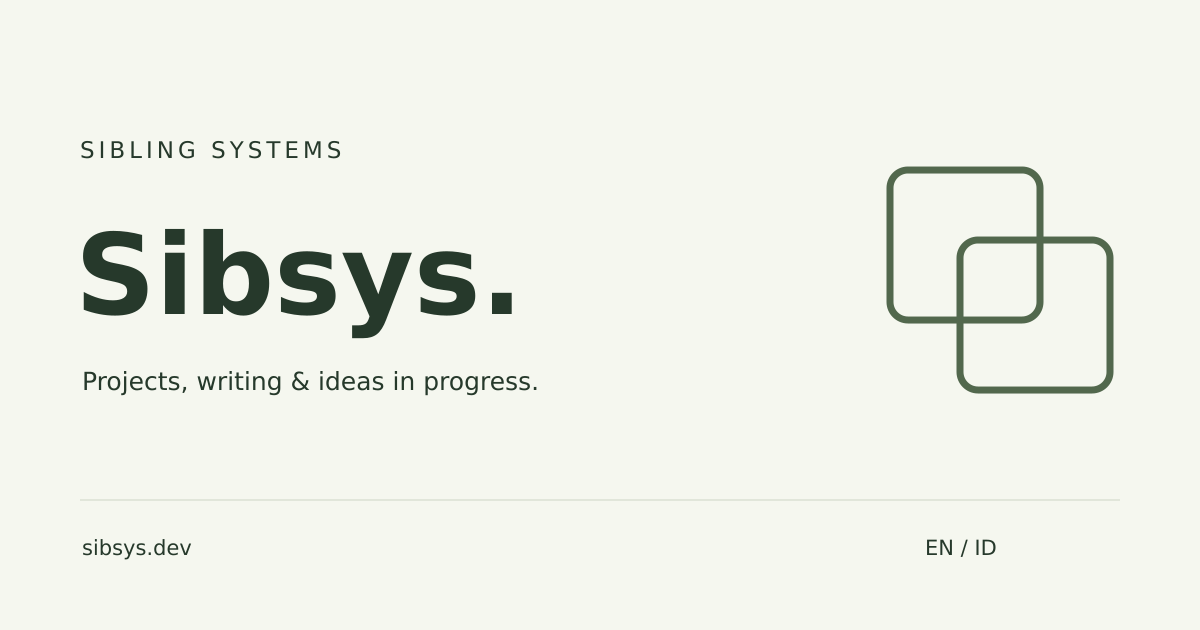
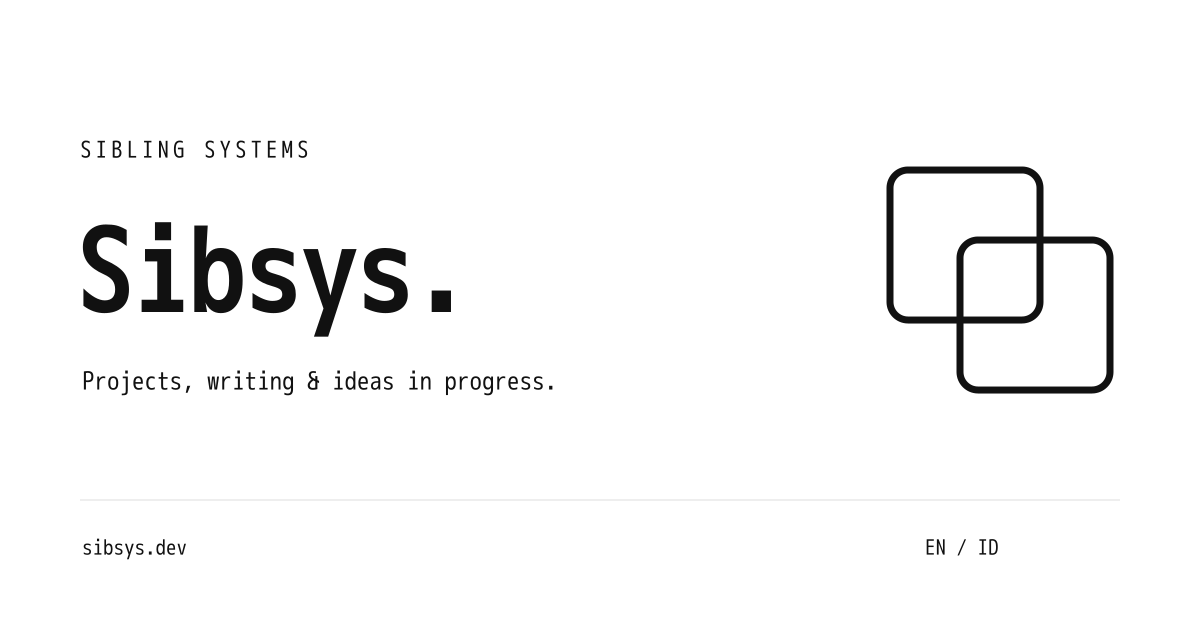
style: adopt monochrome themes and move visible attribution to README

diff --git a/app/styles/sibsys.css b/app/styles/sibsys.css
@@ -1,31 +1,30 @@
 @import '@fontsource/maple-mono/latin-400.css';
 @import '@fontsource/maple-mono/latin-600.css';
-@import '@navfolio/theme-default/styles/palettes.css';
 
 :root,
 :root[data-palette] {
   color-scheme: light;
-  --bg: #fdfdf9;
-  --surface: #fffffc;
-  --wash: #f1f4ed;
-  --ink: #272d28;
-  --muted: #626d62;
-  --line: #dce2d8;
-  --accent: #486448;
-  --soft: #e6edde;
+  --bg: #ffffff;
+  --surface: #ffffff;
+  --wash: #f5f5f5;
+  --ink: #111111;
+  --muted: #595959;
+  --line: #dedede;
+  --accent: #111111;
+  --soft: #e9e9e9;
   --font: 'Maple Mono', ui-monospace, monospace;
 }
 :root[data-theme='dark'],
 :root[data-theme='dark'][data-palette] {
   color-scheme: dark;
-  --bg: #171b18;
-  --surface: #202620;
-  --wash: #252e25;
-  --ink: #eaebe5;
-  --muted: #b0bcac;
-  --line: #3a4639;
-  --accent: #bbd4a9;
-  --soft: #344332;
+  --bg: #222222;
+  --surface: #292929;
+  --wash: #303030;
+  --ink: #e2e2e2;
+  --muted: #b5b5b5;
+  --line: #484848;
+  --accent: #dcdcdc;
+  --soft: #3a3a3a;
 }
 * {
   box-sizing: border-box;
@@ -145,7 +144,7 @@ a svg {
   border: 1px solid var(--line);
   border-radius: 9px;
   background: var(--surface);
-  box-shadow: 0 2px 4px #16251603;
+  box-shadow: 0 2px 4px #00000003;
   z-index: 20;
 }
 .brand {
@@ -577,10 +576,6 @@ a svg {
   font-size: 10px;
   margin: 7px 0;
 }
-.site-footer small {
-  color: var(--muted);
-  font-size: 9px;
-}
 .footer-links {
   display: flex;
   gap: 25px;
@@ -718,6 +713,15 @@ a svg {
 .prose blockquote p {
   margin: 0;
 }
+.prose .callout,
+:root[data-theme='dark'] .prose .callout {
+  background: var(--wash);
+  border-color: var(--line);
+  border-left-color: var(--accent);
+}
+.prose .callout-title {
+  color: var(--ink);
+}
 .prose table {
   border-collapse: collapse;
   width: 100%;
@@ -822,7 +826,7 @@ dialog {
   box-shadow: 0 20px 90px #0003;
 }
 dialog::backdrop {
-  background: #10201066;
+  background: #00000066;
   backdrop-filter: blur(3px);
 }
 .search-heading {

diff --git a/app/lib/i18n.ts b/app/lib/i18n.ts
@@ -36,7 +36,6 @@ export const messages = {
     colophon: 'A little place to make things.',
     rss: 'Subscribe via RSS',
     source: 'Source code',
-    inspired: 'Inspired by Navfolio.',
     writingKicker: 'The notebook',
     writingTitle: 'Notes along the way.',
     writingDescription: 'Ideas, observations, and things worth writing down.',
@@ -107,7 +106,6 @@ export const messages = {
     colophon: 'Ruang kecil untuk berkarya.',
     rss: 'Berlangganan lewat RSS',
     source: 'Kode sumber',
-    inspired: 'Terinspirasi oleh Navfolio.',
     writingKicker: 'Buku catatan',
     writingTitle: 'Catatan dalam perjalanan.',
     writingDescription: 'Ide, pengamatan, dan hal-hal yang layak dicatat.',

diff --git a/scripts/build.ts b/scripts/build.ts
@@ -11,7 +11,8 @@ async function run(command: string[]) {
   });
   if (await child.exited) throw new Error(`Build step failed: ${command.join(' ')}`);
 }
-await run(['node', 'node_modules/astro/bin/astro.mjs', 'build']);
+// Content caches can retain stylesheet URLs from an earlier Markdown theme.
+await run(['node', 'node_modules/astro/bin/astro.mjs', 'build', '--force']);
 for (const lang of ['en', 'id']) await cp(`dist/${lang}/404/index.html`, `dist/${lang}/404.html`);
 if (site.placeholderMode) {
   const headers = await readFile('dist/_headers', 'utf8');

diff --git a/app/scripts/interactions.ts b/app/scripts/interactions.ts
@@ -3,6 +3,8 @@ const toggle = document.querySelector<HTMLButtonElement>('#theme-toggle');
 toggle?.addEventListener('click', () => {
   const next = document.documentElement.dataset.theme === 'dark' ? 'light' : 'dark';
   document.documentElement.dataset.theme = next;
+  const themeColor = document.querySelector<HTMLMetaElement>('meta[name="theme-color"]');
+  if (themeColor) themeColor.content = themeColor.dataset[next]!;
   try {
     localStorage.setItem('sibsys-theme', next);
   } catch {

diff --git a/docs/implementation-record.md b/docs/implementation-record.md
@@ -52,3 +52,13 @@ A subsequent export verification preserved every non-search file checksum but ch
 Docker Compose editing and Wrangler preview both started successfully on loopback. A temporary bind-mounted edit appeared in the editing service and was restored immediately. An isolated export test verified that the active release no longer contains a withdrawn page while the old artifact remains retained. The export now saves its matching Wrangler configuration and records actual Node version, lockfile hash and configuration hash. Wrangler's upload dry run passed with no configured application bindings. A dry run is not a deployment.
 
 The final source tag is `v0.1.0-preview.1`; it denotes a placeholder preview, not production acceptance. The local runtime/output is ready for owner review. G2's bilingual slice is implemented and tested; G3's placeholder presentation is delivered under the owner's scope change. G4/G5 remain open for the specifically listed manual/owner/hosted checks. The retained Markdown adapter still produces an Astro deprecation notice; migrate that adapter before a future incompatible framework upgrade.
+
+## Monochrome and interface attribution revision — 2026-10-17
+
+The owner requested a plain black/white light theme, comfortable dark contrast and no Navfolio credit in the website interface. Light mode now uses white surfaces and near-black text; dark mode uses charcoal `#222222` with off-white text. Navigation, search, code syntax, Markdown callouts, favicon, sharing image and browser theme color follow the neutral palette. The README acknowledgment and existing license notices remain; these changes do not transfer upstream copyright.
+
+Removed the EN/ID footer attribution and its translation keys. Visible-text extraction found no upstream name across all 45 generated HTML files. Seven unit tests, Astro diagnostics, formatting and eight Chromium browser scenarios passed. Additional checks against the refreshed Docker preview covered EN/ID home and code-containing articles in both themes: no chromatic computed UI colors, no selected axe A/AA violations, and a minimum 5.55:1 contrast for primary, secondary and accent text against the four surface tokens. Desktop/mobile, both themes, article and sharing-image renders were inspected. This remains automated/sample-based verification, not full manual accessibility acceptance.
+
+The output audit exposed a stale Expressive Code stylesheet URL after changing its theme. Production builds now use Astro's supported `--force` option to refresh content caches. Rebuilding the previously cached workspace and a clean Docker source layer both passed the generated-link audit.
+
+GitHub's public contributor API listed six inherited authors/bots plus the owner, matching the local history. The list comes from commit authorship, independently of collaborator access. Removing the inherited names requires replacing the default-branch ancestry; this revision does not itself rewrite that history. Prepare and verify a complete Git bundle and a candidate preserving the owner's Sibsys commits before any separately approved public history replacement. GitHub documents that contributor statistics can take about 24 hours to refresh after a history change: [contributor documentation](https://docs.github.com/en/repositories/viewing-activity-and-data-for-your-repository/viewing-a-projects-contributors).

diff --git a/README.md b/README.md
@@ -1,6 +1,6 @@
 # Sibsys — Sibling Systems
 
-A quiet home for projects, writing, and ideas in progress. English and Bahasa Indonesia, light/dark themes and local search. Built with Astro, inspired by [Navfolio](https://github.com/dodolalorc/astro-navfolio), for **https://sibsys.dev**.
+A quiet home for projects, writing, and ideas in progress. English and Bahasa Indonesia, monochrome light/charcoal dark themes and local search. Built with Astro for **https://sibsys.dev**.
 
 This first version contains **clearly labeled placeholder content**, as requested. Search engines are asked not to index it until `placeholderMode` is turned off after editorial review. This is a publishing preference, not access control: public files and Git history remain readable.
 
@@ -48,7 +48,7 @@ Read the [author guide](docs/author-guide.md), [operations guide](docs/operation
 
 Upstream Navfolio history and its MIT notice are retained. Legacy `src/` (except `src/lib/` and the Markdown plugin adapter), `public/`, old scripts and the optional `src/docs` submodule are reference material. **Edit the `app/` paths above.** A normal clone is sufficient; initializing the reference docs submodule is unnecessary. Rebuild the original reference only from audited commit `70aa71ddd9f7ee4af38fa5810b320820712f1885` in a separate checkout.
 
-The Docker image digest, Bun version and `bun.lock` pin build inputs. Sibsys uses Navfolio's neutral base layout, palettes and Markdown integration, with application-owned EN/ID routing; no private package forks are required. See [third-party notices](docs/third-party-notices.md).
+The Docker image digest, Bun version and `bun.lock` pin build inputs. Sibsys owns its EN/ID routing and monochrome palettes; no private package forks are required.
 
 ## Source and deployment
 
@@ -57,3 +57,7 @@ Source: [ghanrabban/Sibling-Systems-Portfolio](https://github.com/ghanrabban/Sib
 GitHub publication and Cloudflare deployment are separate. The inherited Pages/review workflows were removed; pushes do not automatically deploy or send source to a review provider. Keep confidential drafts outside this public repository.
 
 The intended Worker is `sibsys-portfolio`. Verify the account and existing custom-domain binding before deployment. Configuration intentionally does not replace an unknown domain association. Follow the operations guide to upload the reviewed static artifact and connect `sibsys.dev`.
+
+## Acknowledgment
+
+Inspired by [Navfolio](https://github.com/dodolalorc/astro-navfolio). Sibsys retains its neutral base layout and Markdown integration. The original MIT copyright/permission notice and applicable package/font/icon licenses remain included; see [LICENSE](LICENSE) and [third-party notices](docs/third-party-notices.md). This acknowledgment is shown here rather than in the website interface.

diff --git a/.agents/context/current-design.md b/.agents/context/current-design.md
@@ -2,7 +2,9 @@
 
 Production source: `app/`; public assets: `static/`; Astro static output: `dist/`. Local `src/lib/publication.ts` owns en/id locales, Jakarta build-date eligibility, slug uniqueness and translation pairing. `app/content.config.ts` loads locale-qualified IDs from Markdown/MDX. Collection eligibility feeds all routes, feeds and Pagefind.
 
-Retained Navfolio pieces: language-neutral BaseLayout, palette styles, Markdown integration through `src/plugins/config.ts`, upstream Git history and MIT license. No package fork is needed and upstream locale normalization is not used. `modules: []` disables legacy injected modules. `src/` legacy content/layouts and `public/` are references, not production inputs.
+Retained Navfolio pieces: language-neutral BaseLayout, Markdown integration through `src/plugins/config.ts`, upstream Git history and MIT license. No package fork is needed and upstream locale normalization is not used. `modules: []` disables legacy injected modules. `src/` legacy content/layouts and `public/` are references, not production inputs.
+
+Owner's 2026-10-17 design revision: application-owned neutral grayscale tokens, white/near-black light mode and charcoal/off-white dark mode. Code blocks, favicon and sharing artwork follow the same direction. No visible upstream credit in the website interface; README credit and license notices remain.
 
 Docker provides edit, build/export, local Wrangler preview and browser QA targets. The final release is static assets only: no main Worker script/SSR/database. Intended origin `https://sibsys.dev`; account/domain association remains deployment-specific. EN is the root redirect; EN/ID detail URLs may differ while sharing a translation key. Placeholder mode requests noindex until the owner replaces/reviews examples.
 

diff --git a/AGENT.md b/AGENT.md
@@ -3,7 +3,7 @@
 The owner authorized a bilingual EN/ID portfolio derived from Navfolio, with placeholder content, local Docker and Workers Static Assets. Read `.agents/context/current-design.md`, `.agents/context/current-progress.md`, README and `docs/implementation-record.md`.
 
 - Production is `app/` and `static/`; publication rules live in `src/lib/`. Retain upstream history/notices. Legacy starter/docs are reference material, not a second production mode.
-- Keep calm paper/sage styling, responsive reading, keyboard navigation and usable no-JavaScript content.
+- Keep monochrome white/black light styling and comfortable charcoal/off-white dark styling, responsive reading, keyboard navigation and usable no-JavaScript content. Visible upstream credit belongs in README, with required notices retained in license files.
 - Keep locale, translation eligibility, date, route, feed and search behavior consistent. Preserve the source/publication boundary; drafts in a public Git repository are not confidential.
 - Never commit credentials, caches, release outputs, private book files or browser reports. Preserve unrelated owner changes.
 - Use frozen dependency installs and pinned Docker tools. Check `bun run test`, `bun run check`, `bun run format:check`, `bun run build`; verify visible behavior with `bun run test:browser` inside Docker. Publication-boundary changes also require `bun run test:publication`. Recheck performance after meaningful loading/layout changes.

diff --git a/docs/third-party-notices.md b/docs/third-party-notices.md
@@ -1,7 +1,7 @@
 # Source and asset provenance
 
 - **Navfolio**: `dodolalorc/astro-navfolio` commit `70aa71ddd9f7ee4af38fa5810b320820712f1885`. Original MIT `LICENSE` and history are retained. Legacy demo media/content is outside the production input directories and Docker public-asset context.
-- **Navfolio packages**: revisions are pinned in `bun.lock`; their package notices remain applicable. No upstream core change or private fork is claimed. Production uses the neutral layout, palette styles and Markdown integration.
+- **Navfolio packages**: revisions are pinned in `bun.lock`; their package notices remain applicable. No upstream core change or private fork is claimed. Production uses the neutral layout and Markdown integration; monochrome palettes are application-owned.
 - **Maple Mono**: self-hosted Latin fonts from `@fontsource/maple-mono`, SIL Open Font License 1.1; see the installed package and [Maple Mono](https://github.com/subframe7536/maple-font). No CJK font or remote font service is requested by the site.
 - **Lucide**: inline SVG icons from `lucide-astro`, ISC license.
 - **Astro, Pagefind, Expressive Code, Wrangler, Playwright and axe-core**: governed by retained package licenses; versions in `bun.lock`. Development dependencies are not uploaded as a server.
